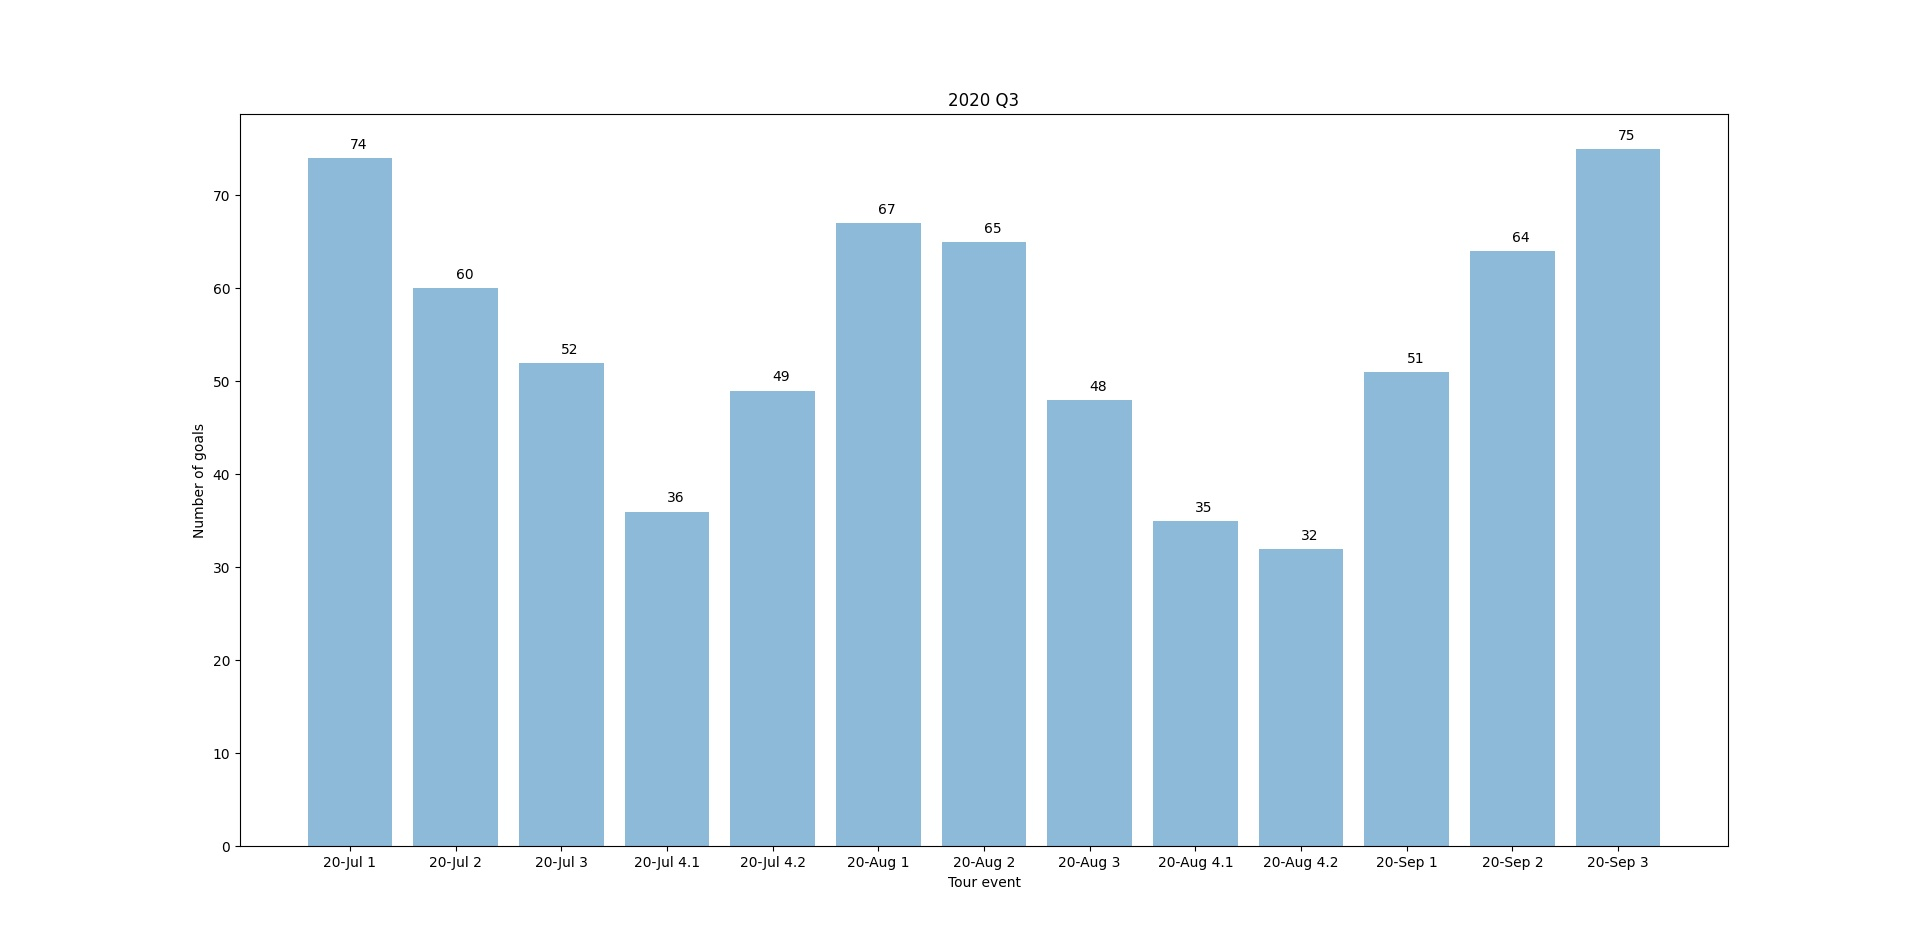
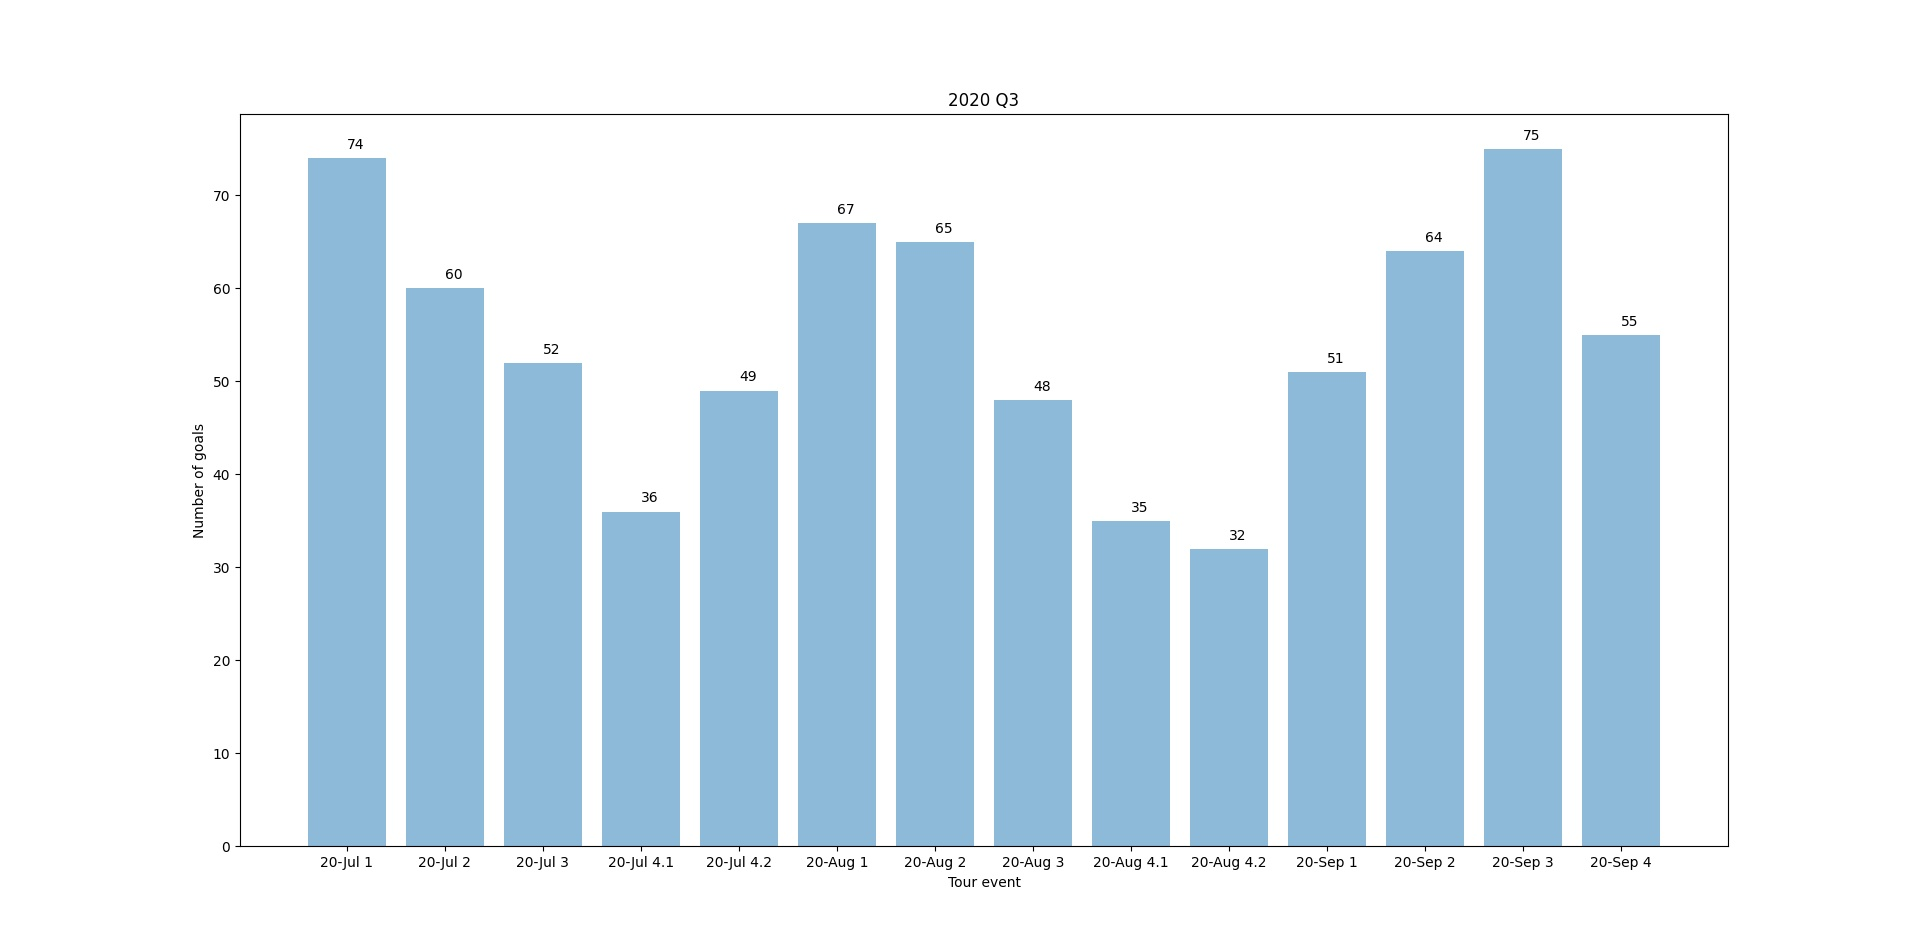
September 4th week Update

Changed region(s): [[0.2188, 0.1525, 0.875, 0.9148], [0.1875, 0.2744, 0.25, 0.8843], [0.1562, 0.8843, 0.1875, 0.9148]]

diff --git a/tour_complete.py b/tour_complete.py
@@ -34,4 +34,5 @@ tour_complete = {
 	"20-Sep 1": 51,
 	"20-Sep 2": 64,
 	"20-Sep 3": 75,
+	"20-Sep 4": 55,
 }

diff --git a/tour_2020_Q3.py b/tour_2020_Q3.py
@@ -12,4 +12,5 @@ tour_2020_Q3 = {
 	"20-Sep 1": 51,
 	"20-Sep 2": 64,
 	"20-Sep 3": 75,
+	"20-Sep 4": 55,
 }
